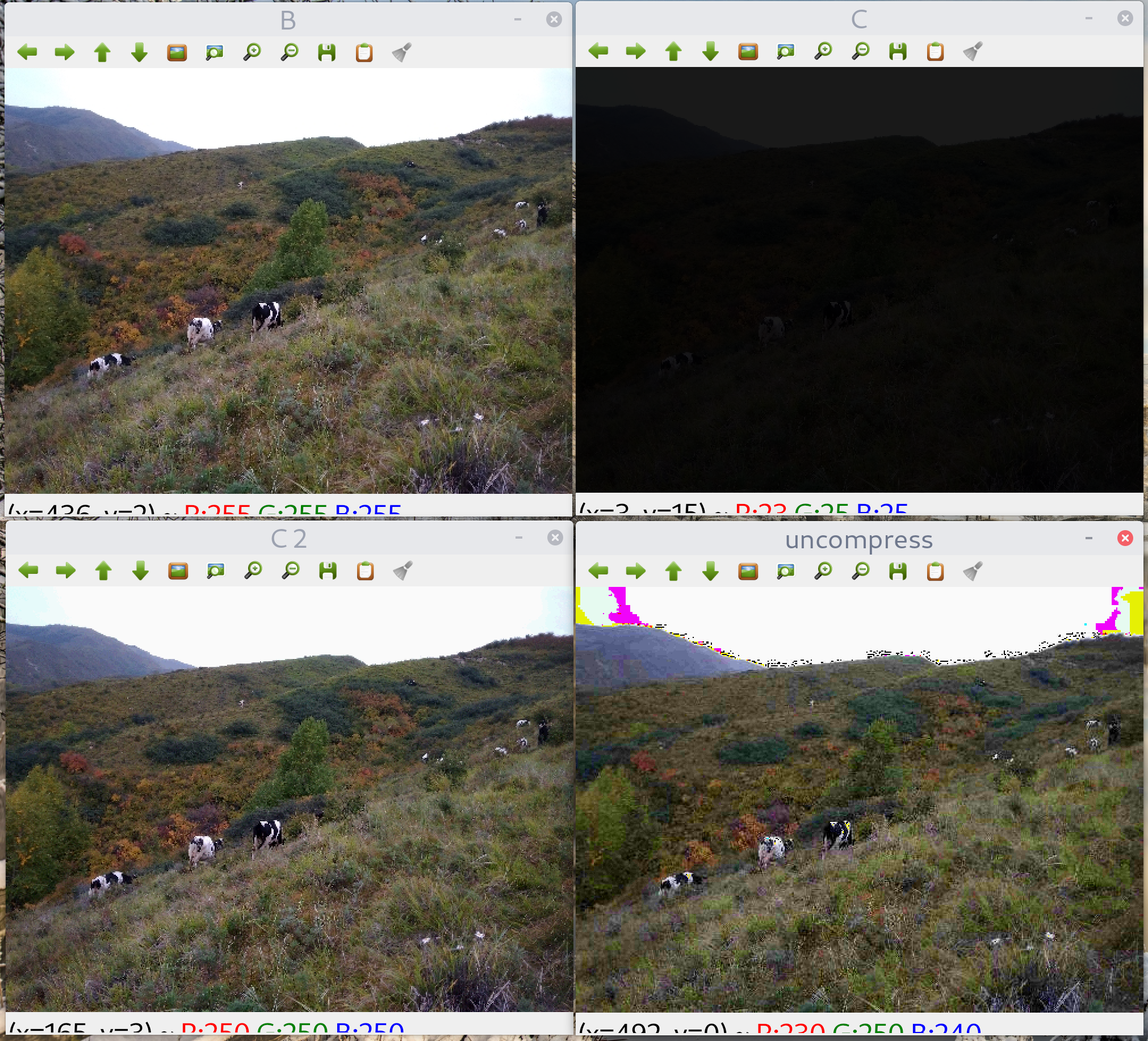
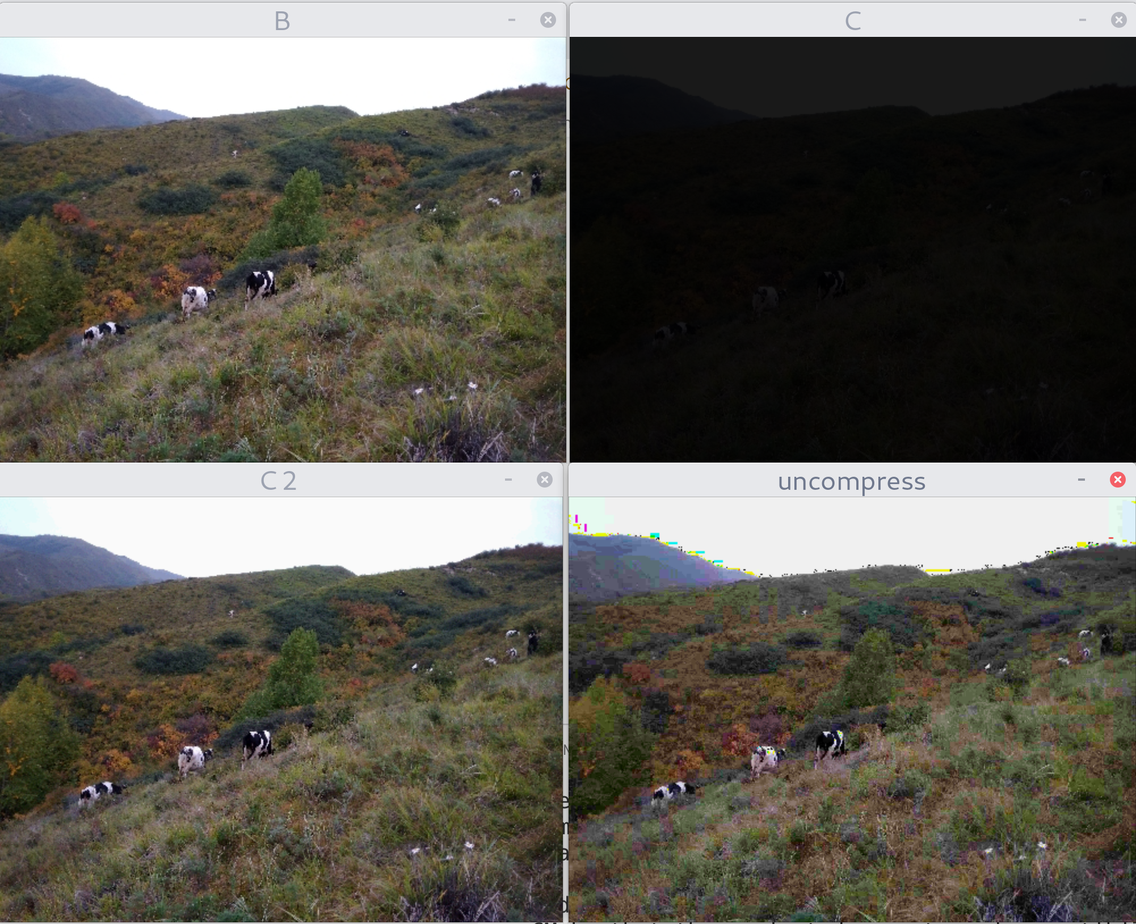
update: 换成webp

diff --git a/OpenCV_learn.cpp b/OpenCV_learn.cpp
@@ -11,6 +11,7 @@ using namespace cv;
 typedef Point3_<uint8_t> Pixel;
 
 typedef Point3_<uint8_t> Pixel5;
+std::vector<int> paramsImage = std::vector<int>();
 
 void foreachTest(Pixel &pixel)
 {
@@ -23,6 +24,8 @@ void foreachTest(Pixel &pixel)
 void compressImage()
 {
 	Mat B = imread("./assets/b.jpg");
+	imwrite("./assets/src.webp", B, paramsImage);
+
 	// B.forEach<Pixel>(
 	// 	[](Pixel &pixel, const int *position) -> void
 	// 	{
@@ -50,7 +53,7 @@ void compressImage()
 	}
 	imshow("B", B);
 	imshow("C", C);
-	imwrite("./assets/test_compress.jpg", C);
+	imwrite("./assets/test_compress.webp", C, paramsImage);
 	waitKey(0);
 	for (int r = 0; r < C.rows; r++)
 	{
@@ -67,7 +70,7 @@ void compressImage()
 }
 void uncompressImage()
 {
-	Mat B = imread("./assets/test_compress.jpg");
+	Mat B = imread("./assets/test_compress.webp");
 	for (int r = 0; r < B.rows; r++)
 	{
 		// Loop over all columns
@@ -85,6 +88,9 @@ void uncompressImage()
 }
 int main(int argc, char **argv)
 {
+	paramsImage.push_back(IMWRITE_WEBP_QUALITY);
+	// >100 no loos
+	paramsImage.push_back(100);
 	compressImage();
 	uncompressImage();
 	return 0;

diff --git a/README.md b/README.md
@@ -11,17 +11,22 @@ cd build&&cmake ../&&cmake --build .&&cd ..&&./build/OpenCV_learn
 
 删除每一个像素(24位)每个RGB值的最后一位(降低对比度).
 
+存储jpg文件更小, 因为jpg算法也做了一次处理, 也导致部分颜色完全不正常.
+
+opencv 直接存储webp会变大
+
 ## 结果
 
 |压缩前|压缩后|
 |---|---|
-|179.1kb|29.4kb|
+|179.1kb|29.4kb(jpg)|
+|179.1kb|120.3kb(webp,no loss)|
+|179.1kb|32.3kb(webp,100)|
 
-![example.png](image/example.png)
+> ![example.png](image/example.png)webp,no loss
 
 B 原图, C 压缩后, C2 直接内存数据复原, uncompress 存储成 jpg 文件后再复原.
 
 ## 缺陷
 
 1. 色域会有损失
-2. 存储成 jpg 文件后再复原数据不正确(*)
